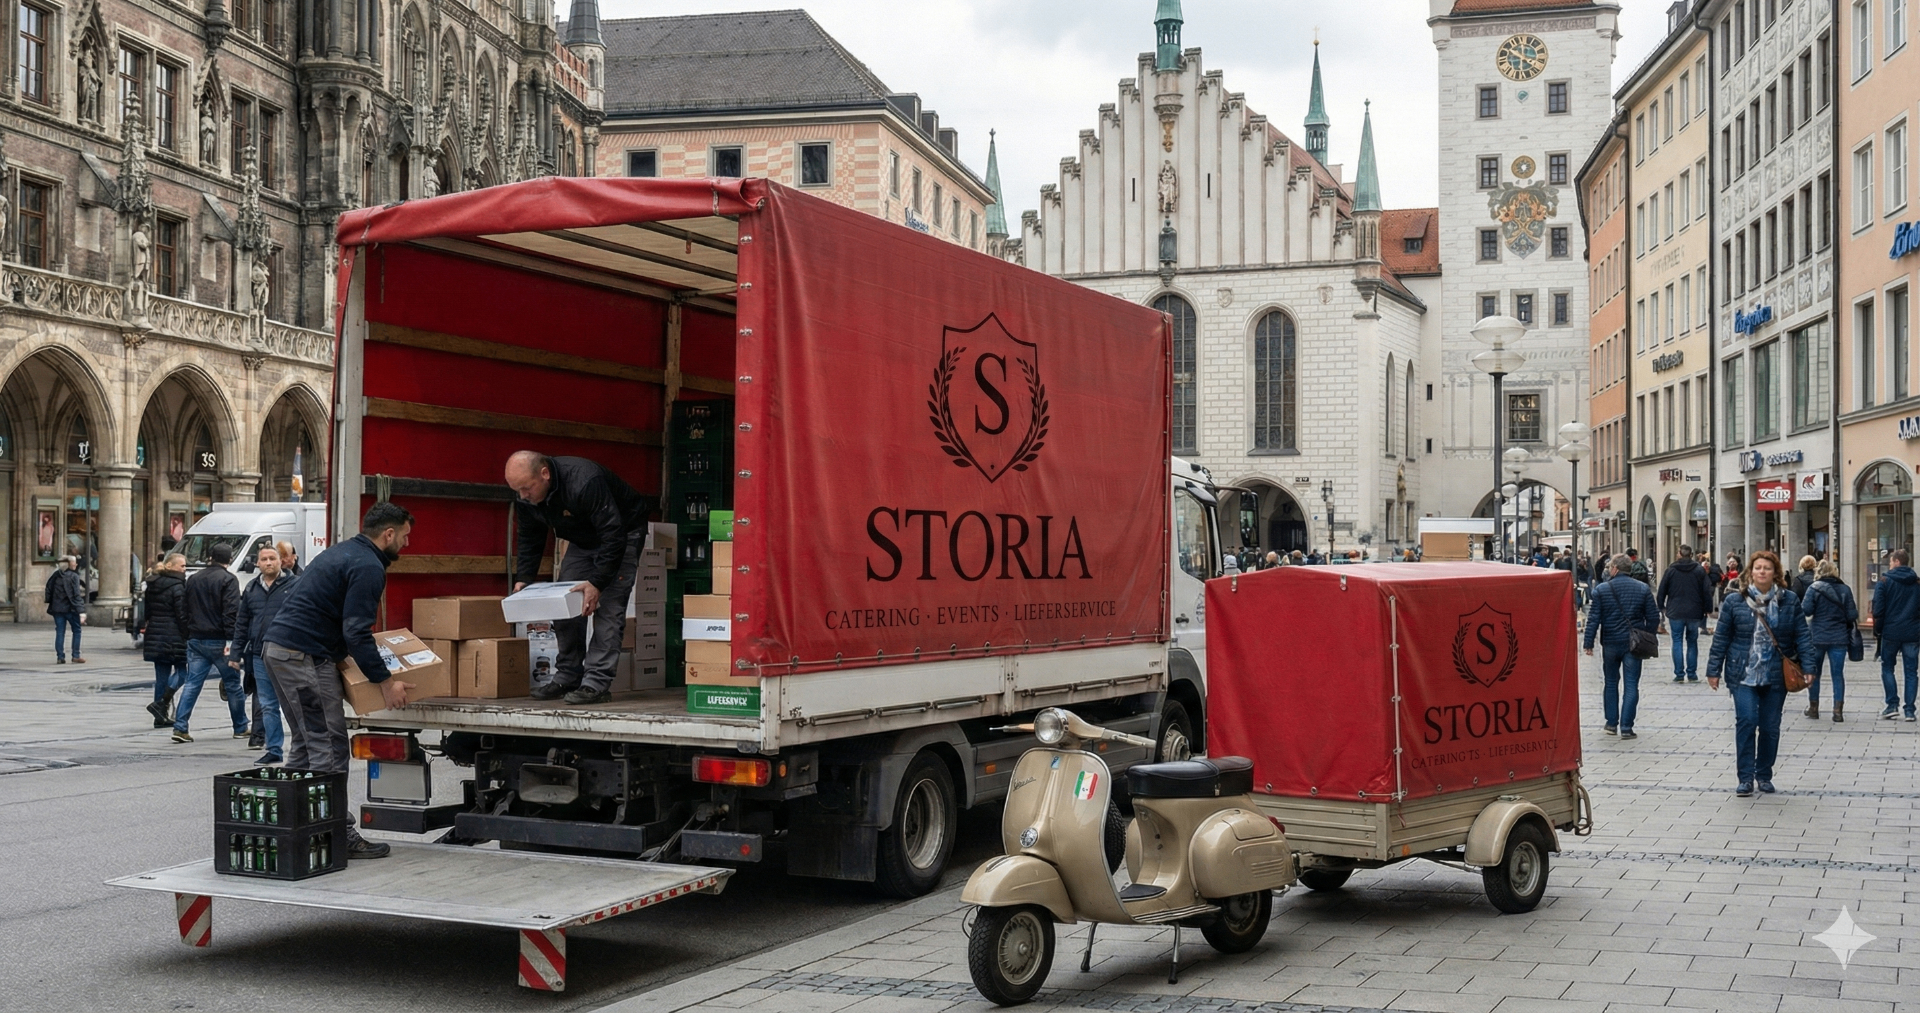
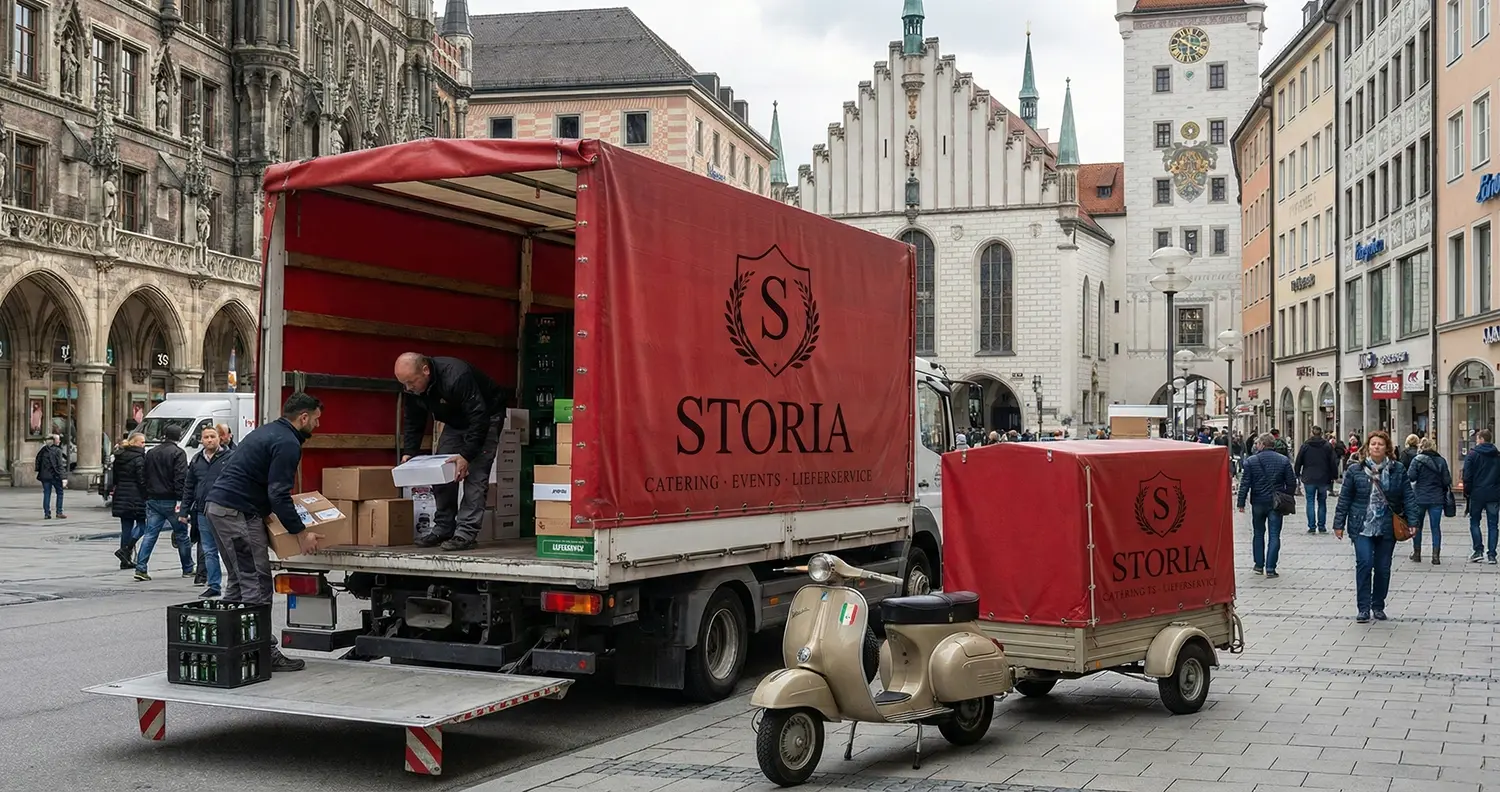
Changes

diff --git a/src/pages/Index.tsx b/src/pages/Index.tsx
@@ -69,14 +69,14 @@ const Index = () => {
           <CateringGrid />
           
           {/* Delivery Image Section */}
-          <section className="py-12 md:py-16">
+          <section className="py-8 md:py-12">
             <div className="container mx-auto px-4">
               <img
                 src={lieferungMuenchen}
                 alt={language === 'de' 
-                  ? 'STORIA Lieferservice München – Catering-Lieferung mit LKW und Vespa' 
-                  : 'STORIA Delivery Service Munich – Catering delivery with truck and Vespa'}
-                className="w-full rounded-xl shadow-lg"
+                  ? 'STORIA Catering Lieferservice München – Lieferwagen und Vespa am Marienplatz' 
+                  : 'STORIA Catering Delivery Service Munich – Delivery truck and Vespa at Marienplatz'}
+                className="w-full max-w-4xl mx-auto rounded-xl shadow-lg"
                 loading="lazy"
                 decoding="async"
               />
